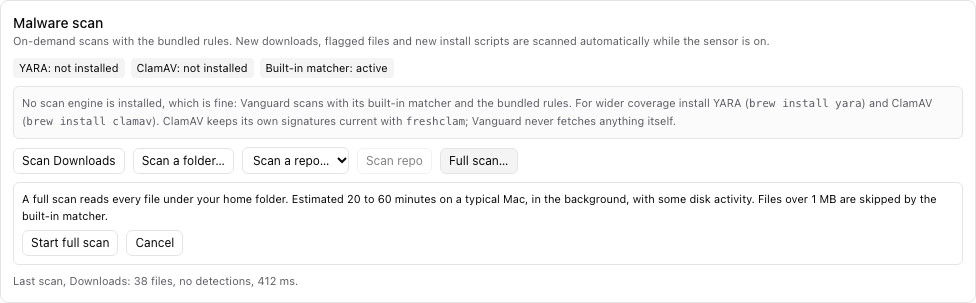
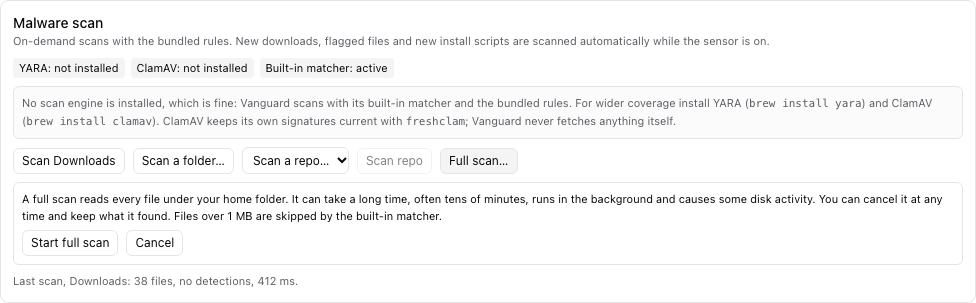
docs(vanguard): Phase 120 F headlines for the digest allowlist and cancel; refresh confirm shot

Changed region(s): [[0.0307, 0.6238, 0.9836, 0.7426]]

diff --git a/.midnite/tasks/phases/phase-120-vanguard.md b/.midnite/tasks/phases/phase-120-vanguard.md
@@ -162,7 +162,14 @@ and the file paths of any integrity, persistence or process finding. On demand, 
 Downloads, a repo, a folder, and a full home-folder scan behind its own confirm and time estimate (never the
 default). Studio wires the probe, the repos list and the download hook; the Vanguard app has no repo registry,
 folder picker or browser, so it offers Downloads and the full scan and its sensor sees no install scripts or
-downloads. A scan skips Vanguard's own rules and fixtures, so scanning this repo does not flag them.
+downloads. A scan skips Vanguard's own rules and fixtures **by content, never by location**: `vanguard-rules.mjs` also
+embeds the SHA-256 of every file under `rules/` (`OWN_FILE_DIGESTS`, with its own staleness test), and a file is
+skipped only when its bytes hash into that set, so a modified fixture dropped under any
+`packages/features/vanguard/...` path is still flagged. Scans are **cancellable**: `vanguardMalwareScanCancel`
+(shared channel, bridge, preload, the Vanguard app's bridge and the mock bridge) aborts one controller threaded
+through the scanner, the engines' `runProcess` calls and the built-in matcher's walk; the card shows *Cancel scan*
+while one runs, and a cancelled scan keeps its findings so far and reports itself as cancelled, not as a failure.
+The full-scan confirm no longer quotes a number: it says a scan can take a long time, often tens of minutes.
 Findings are `malware`, fingerprinted by rule and path (yara and the matcher dedupe), with a quarantine
 action that Theme H implements.
 
